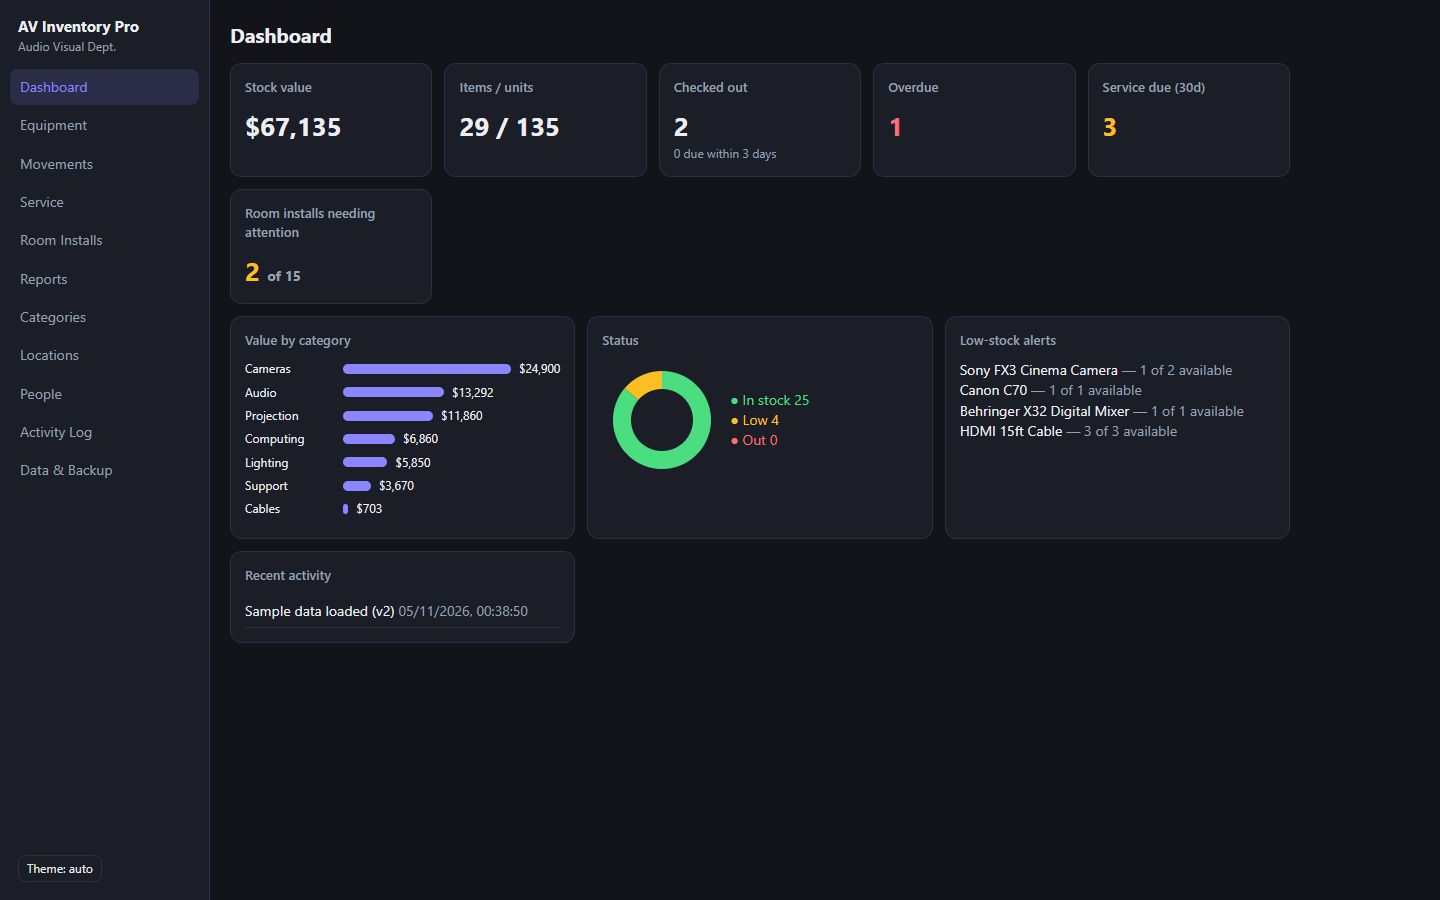
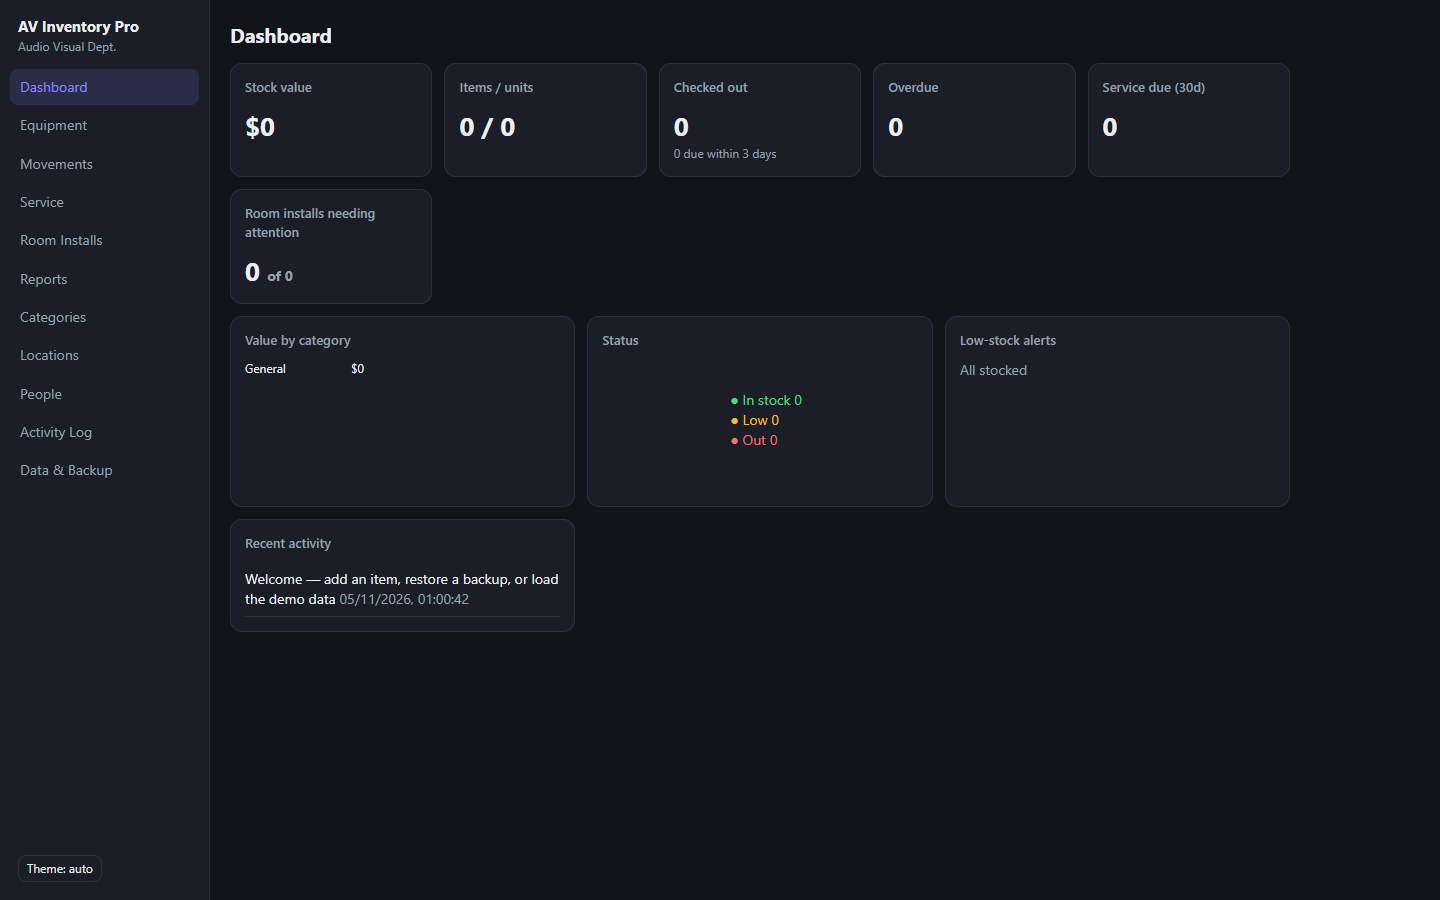
Start empty by default (sample data removed); demo data optional via Data & Backup

diff --git a/app.js b/app.js
@@ -45,8 +45,13 @@ function save() { try { localStorage.setItem(KEY, JSON.stringify(S)); } catch (e
 function log(m) { S.log.unshift({ t: Date.now(), m }); S.log = S.log.slice(0, 200); }
 const nm = (a, id) => (S[a].find(x => x.id == id) || { n: '—' }).n;
 
-/* ---------- sample data ---------- */
+/* ---------- first-run state & demo data ---------- */
+/* First run starts EMPTY — load your real stock via Data & Backup → Restore backup,
+   or let GitHub sync pull it. demoSeed() provides an optional sample set. */
 function seed() {
+  return { ver: 2, items: [], cats: [{ id: uid(), n: 'General' }], locs: [{ id: uid(), n: 'AV Store' }], people: [], co: [], svc: [], rooms: [], inst: [], log: [{ t: Date.now(), m: 'Welcome — add an item, restore a backup, or load the demo data' }] };
+}
+function demoSeed() {
   const cats = ['Cameras', 'Audio', 'Lighting', 'Projection', 'Cables', 'Computing', 'Support'].map(n => ({ id: uid(), n }));
   const locs = ['Media Studio', 'Main Auditorium', 'Control Room', 'Storage Cage'].map(n => ({ id: uid(), n }));
   const people = [
@@ -101,7 +106,8 @@ SanDisk 1TB SSD|Computing|Media Studio|6|3|110|Amazon|2024-02-11|`;
     { id: uid(), item: items[8].id, date: day(-40), what: 'Firmware update and connector check', by: 'Daniel M.', cost: 0 },
     { id: uid(), item: items[2].id, date: day(-75), what: 'Sensor cleaning and full inspection', by: 'Amara O.', cost: 60 }
   ];
-  return { ver: 2, items, cats, locs, people, co, svc, log: [{ t: Date.now(), m: 'Sample data loaded (v2)' }] };
+  const d = seedInst();
+  return { ver: 2, items, cats, locs, people, co, svc, rooms: d.rooms, inst: d.inst, log: [{ t: Date.now(), m: 'Demo data loaded' }] };
 }
 
 function seedInst() {
@@ -574,7 +580,7 @@ function datav() {
   <div class="grid">
   <div class="card"><h3>Export CSV</h3><p class="mu">Spreadsheet-friendly exports of current data.</p><div class="row"><button class="p" onclick="csvItems()">Equipment CSV</button><button onclick="csvCO()">Checkout history CSV</button></div></div>
   <div class="card"><h3>Backup / restore (JSON)</h3><p class="mu">Full snapshot — items, checkouts, service records, installs, log. Data lives only in this browser: keep regular off-device copies.</p><div class="row"><button class="p" onclick="jsonExport()">Download backup</button><label class="filebtn">Restore backup…<input type="file" accept=".json,application/json" onchange="jsonImport(this)"></label></div></div>
-  <div class="card"><h3>Danger zone</h3><div class="row"><button class="d" onclick="resetSample()">Reset to sample data</button><button class="d" onclick="clearAll()">Erase all data</button></div></div>
+  <div class="card"><h3>Danger zone</h3><div class="row"><button onclick="resetSample()">Load demo data</button><button class="d" onclick="clearAll()">Erase all data</button></div></div>
   <div class="card"><h3>Storage</h3><div class="kv"><i>Items</i><b>${S.items.length}</b><i>Checkouts</i><b>${S.co.length}</b><i>Service records</i><b>${S.svc.length}</b><i>Installed equipment</i><b>${S.inst.length}</b><i>Log entries</i><b>${S.log.length}</b><i>Size on disk</i><b>${kb}</b></div></div></div>`;
 }
 function download(name, mime, content) {
@@ -614,7 +620,7 @@ function jsonImport(inp) {
   };
   r.readAsText(f);
 }
-function resetSample() { if (confirm('Reset all data to the sample set?')) { S = seed(); save(); render(); } }
+function resetSample() { if (confirm('Load the demo data set? This replaces ALL current data — export a backup first.')) { S = demoSeed(); save(); render(); } }
 function clearAll() {
   if (confirm('Erase ALL data? Export a backup first — this cannot be undone.')) {
     S = { ver: 2, items: [], cats: [], locs: [], people: [], co: [], svc: [], rooms: [], inst: [], log: [{ t: Date.now(), m: 'All data erased' }] };

diff --git a/README.md b/README.md
@@ -24,6 +24,9 @@ dependencies** and no build step.
 - **Online:** open the live URL above.
 - **Offline:** download the folder and double-click `index.html` — it runs from `file://`
   with no server, no install, no internet.
+- **First run starts empty.** Load your real stock with *Data & Backup → Restore backup*
+  (a JSON backup in this app's format), or let GitHub sync pull it. *Load demo data*
+  fills a sample set if you want to try the workflow; sample data is never auto-loaded.
 - Data is stored in the browser's `localStorage` under the same key as the original
   prototype, so existing data upgrades in place (see *Migration* below).
 
@@ -68,7 +71,8 @@ dependencies** and no build step.
   reference implementation.
 - **Setup lists** — categories, locations, people (with contact details).
 - **Data & backup** — full JSON backup and restore with validation, storage usage stats,
-  reset/erase.
+  reset/erase. The production dataset (AMIT AV-IT store stock, April 2024: 236 stock
+  lines + 157 installed lines) lives in the private sync repo, not in this public one.
 - **GitHub sync** — data saved as a file in a repo, shared across devices (see below).
 - **Activity log** — last 200 mutations, human-readable.
 - **Dark mode** — follows the OS, with an Auto → Light → Dark toggle; responsive layout
